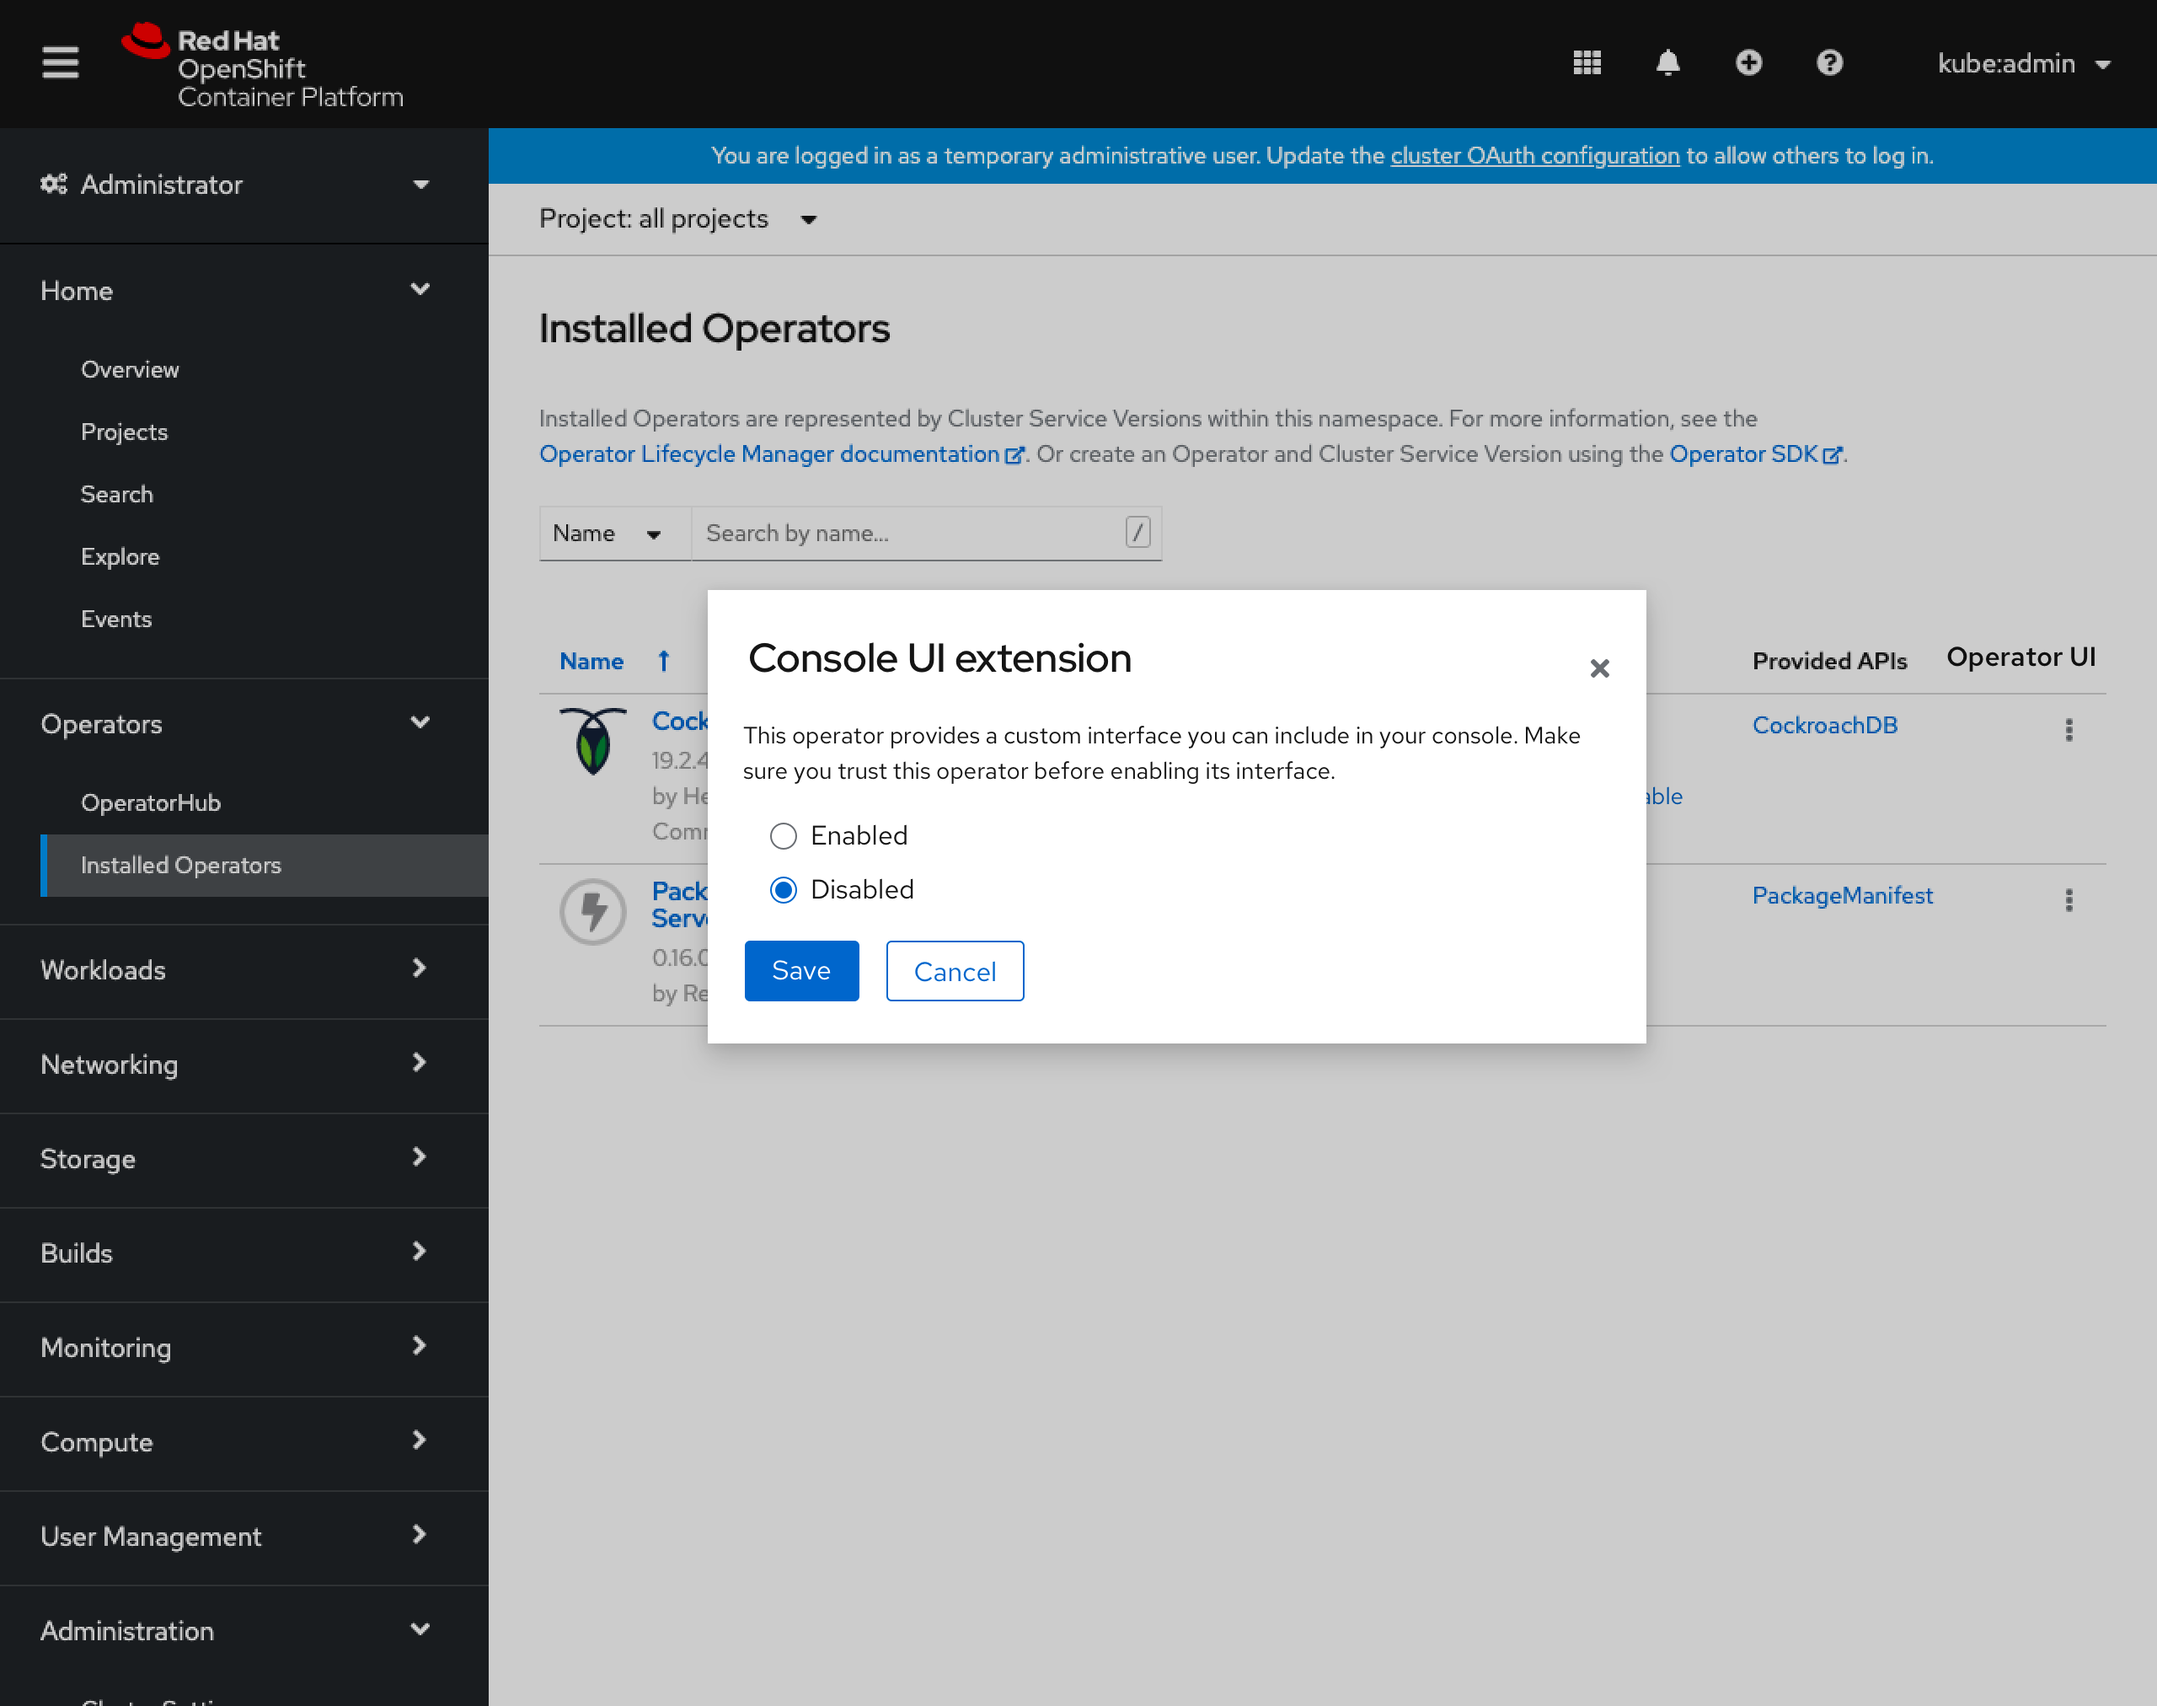
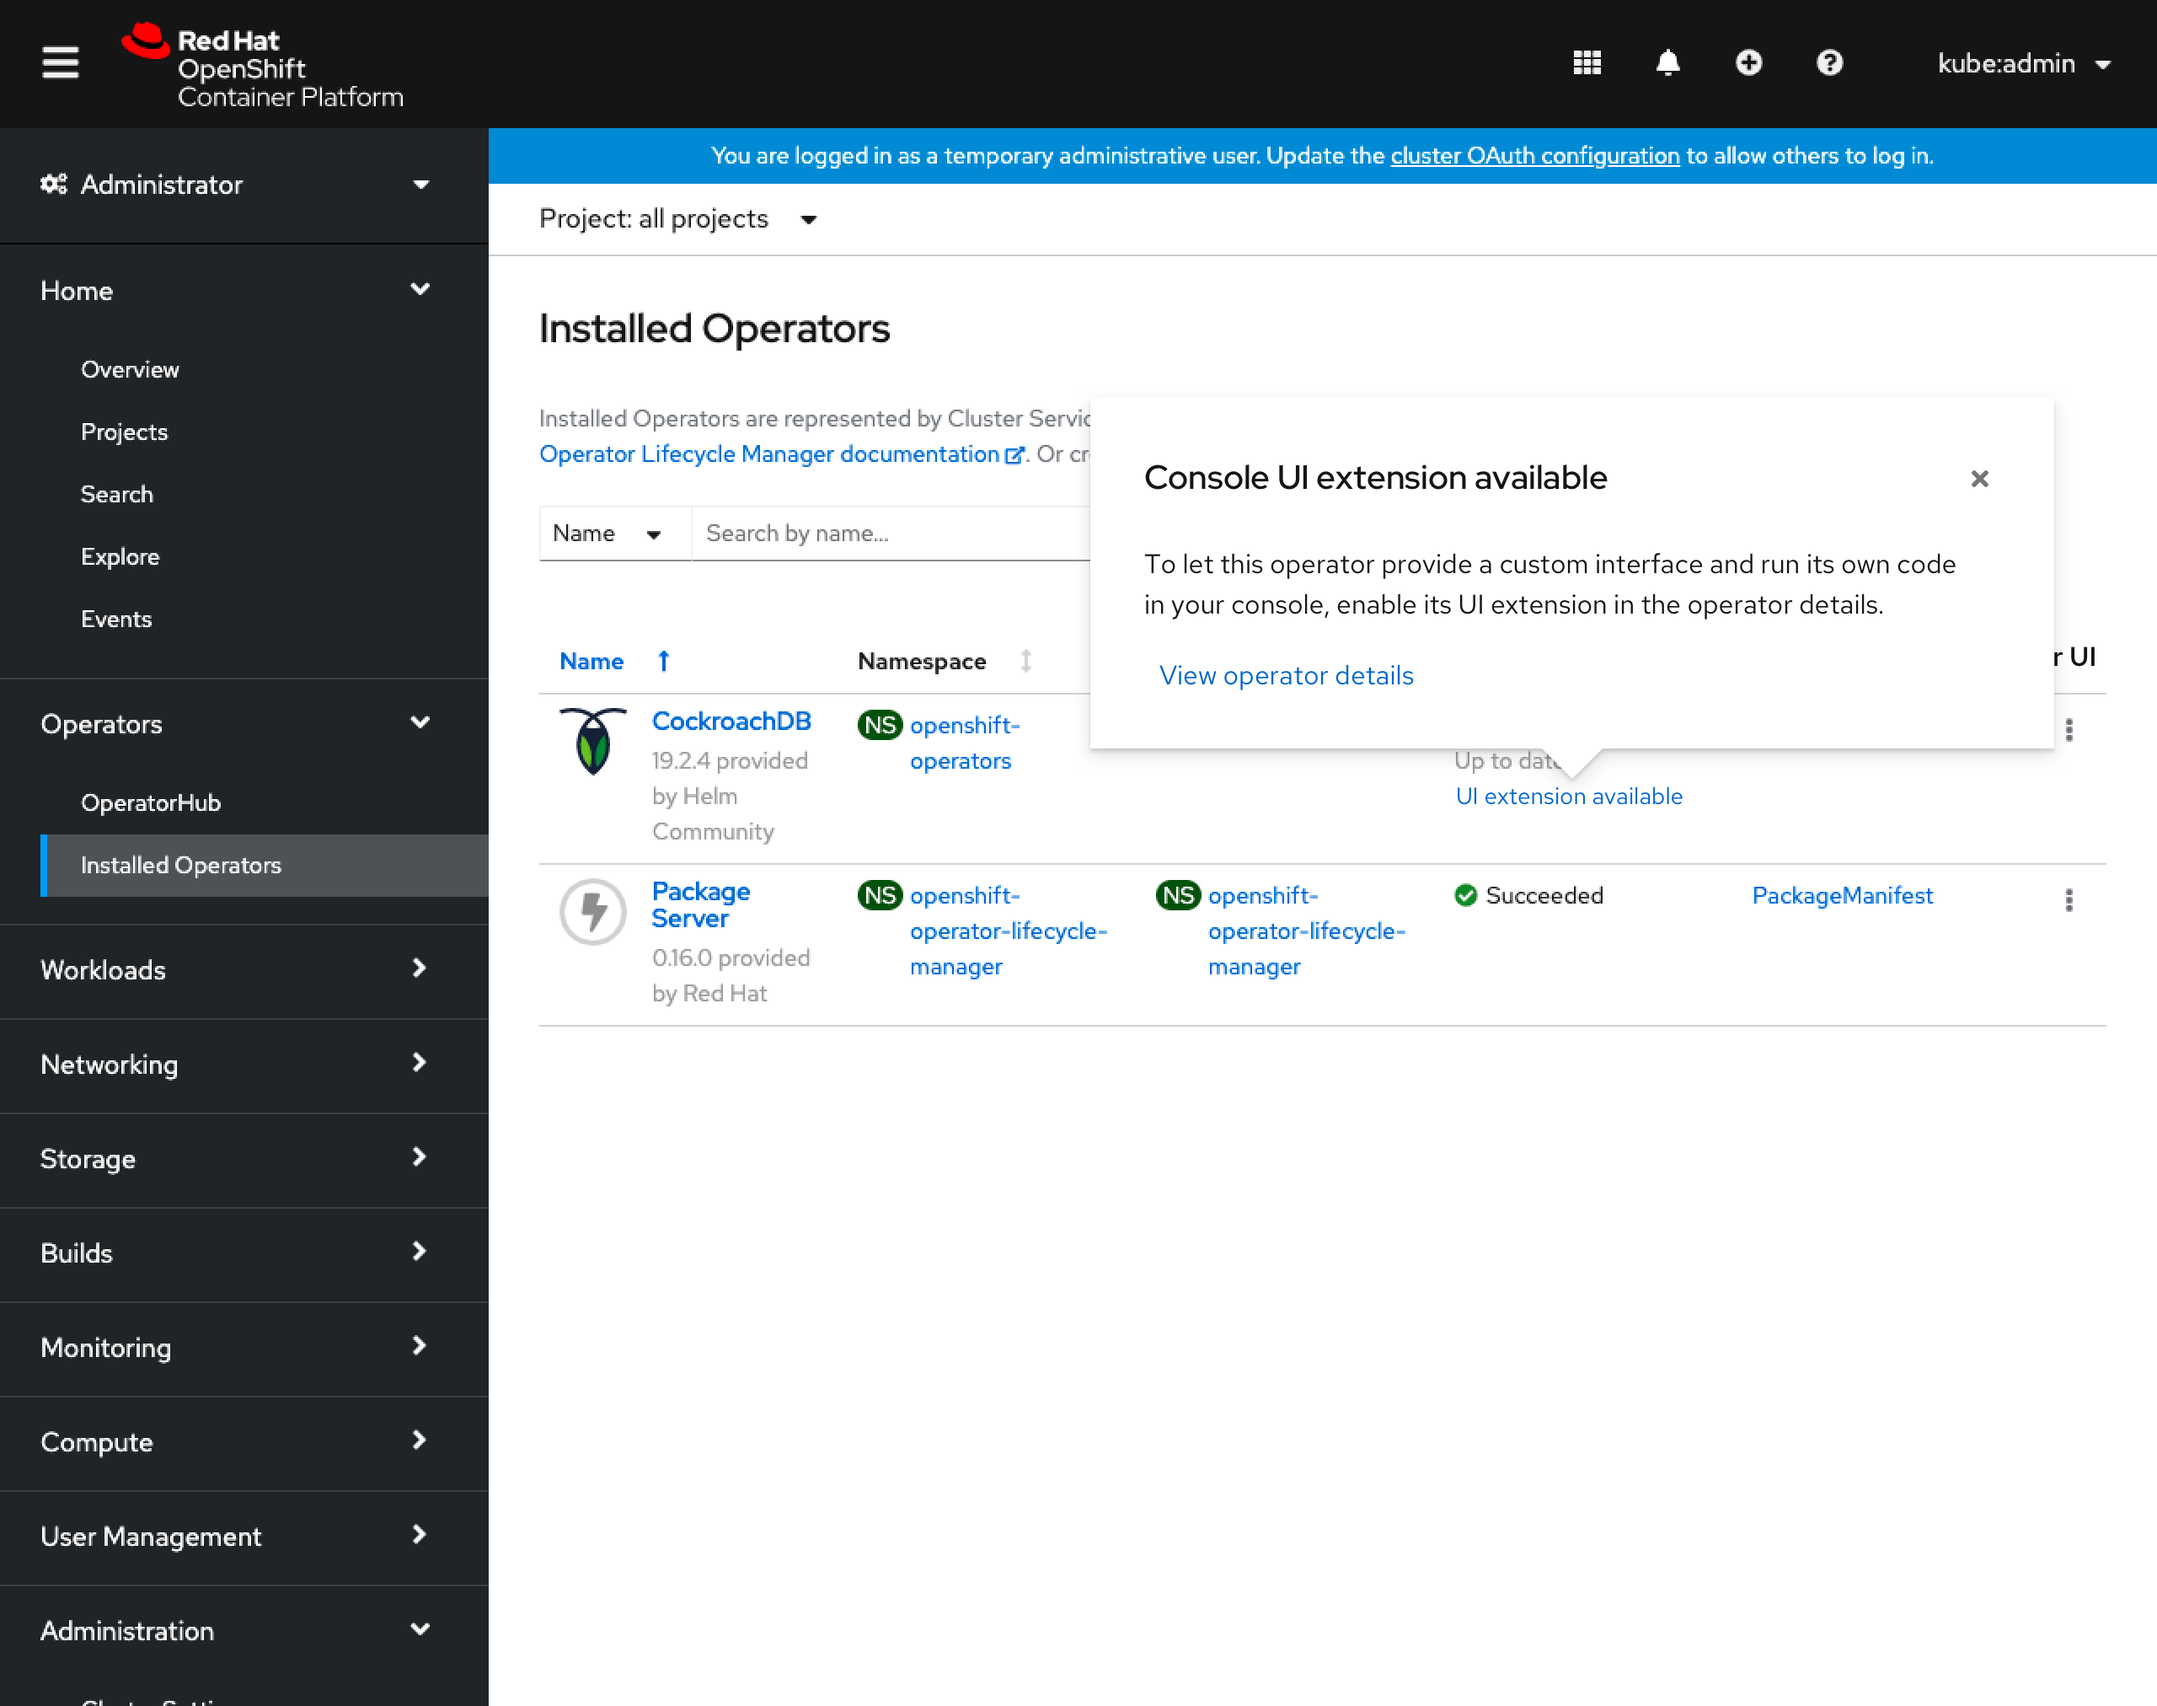
Update to enabling dynamic plugin design

diff --git a/designs/administrator/4.7/enable-dynamic-plugin-ui/index.md b/designs/administrator/4.7/enable-dynamic-plugin-ui/index.md
@@ -1,6 +1,6 @@
 ---
 parent: Administrator
-version: 4.7
+version: 4.8
 ---
 
 # Enabling and disabling dynamic plugin UIs
@@ -8,7 +8,6 @@ version: 4.7
 OpenShift console currently has static plugins that allow teams to contribute features to the UI such as OpenShift Virtualization and OpenShift Container Storage. These plugins live inside console code which means they can only be updated at the same cadence as the console. Newly developed ‘dynamic plugins’ will allow operators to contribute their included UIs at runtime, meaning that operators can update their UIs on their own cadence and more frequently.
 
 Admins installing operators which include dynamic plugins will need to opt-in to having their UIs included in the console UI, which can happen as the operator is being configured for install. Trusted operators could perhaps have this option included by default, whereas other not-explicitly-trusted operators would need to have the user explicitly opt in, as there could be a security risk.
-
 
 Once the operator with the dynamic plugin UI is installed, the user can also turn the dynamic plugin UI on or off in the operator details. The operator list view would also convey any operators with disabled dynamic UIs.
 
@@ -47,7 +46,7 @@ Once the operator with the dynamic plugin UI is installed, the user can also tur
 ![Operator details enabled](img/3-4-detailsEnabled.png)
 - The setting is updated to convey the dynamic plugin UI is enabled.
 
-## Enabling/disabling dynamic plugin UIs in operator details
+## Notifying of available dynamic plugin UIs in operator list
 
 ![Operator list](img/2-1-listView.png)
 - An operator that supports dynamic UIs but does not have them enabled would have an additional status on the Installed Operators page.
@@ -55,4 +54,24 @@ Once the operator with the dynamic plugin UI is installed, the user can also tur
 - Operators that have dynamic UIs and are enabled, or operators that do not have dynamic UIs would not have any additional status.
 
 ![Operator list modal](img/2-2-listView.png)
-- Clicking the status would open the same Console UI extension enablement dialog, and allow the user to enable the dynamic UI.
+- Clicking the status would give the user more information about the available dynamic plugin UI, and how to enable it, as well as a link to the operator details.
+
+## Operators with multiple plugins
+
+In rare cases, it's possible that an operator may contribute multiple plugins. It's unlikely to occur as creating each dynamic plugin UI does have some overhead, but the console UI should support displaying multiple.
+
+### Operator install with multiple plugins
+
+![Operator multi install](img/4-1.png)
+- When multiple plugins exist, on the operator install page their name will be included above the associated radio button set.
+
+![Operator multi install](img/4-2.png)
+- Enabling a UI for an untrusted operator would still show an inline alert conveying implications.
+
+### Operator details with multiple plugins
+
+![Operator multi details](img/5-1.png)
+- When multiple plugins exist, on the operator details page their name will be included to the left of the associated enablement control.
+
+![Operator multi details](img/5-2.png)
+- The same modal would be shown to enable or disable that particular dynamic plugin UI.
